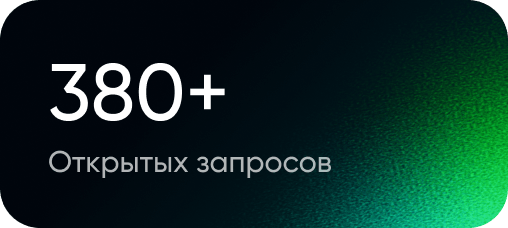
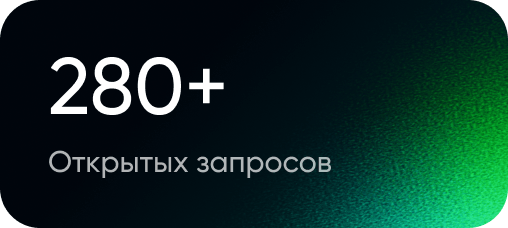
change mik-425

Changed region(s): [[0.0886, 0.2456, 0.4429, 0.5526]]

diff --git a/mik-425/В одном клике от внедрения.html b/mik-425/В одном клике от внедрения.html
@@ -311,7 +311,7 @@
                                                         <tbody>
                                                         <tr>
                                                             <td style="width:254px;">
-                                                                <img alt="380+ Открытых запросов" height="auto" src="https://cp.unisender.com/ru/user_file?resource=images&user_id=5608985&name=mik-425-content-img-2_1.png" style="border:0;display:block;outline:none;text-decoration:none;height:auto;width:100%;font-size:13px;" width="254" />
+                                                                <img alt="280+ Открытых запросов" height="auto" src="https://cp.unisender.com/ru/user_file?resource=images&user_id=5608985&name=mik-425-content-img-2_1.png" style="border:0;display:block;outline:none;text-decoration:none;height:auto;width:100%;font-size:13px;" width="254" />
                                                             </td>
                                                         </tr>
                                                         </tbody>
